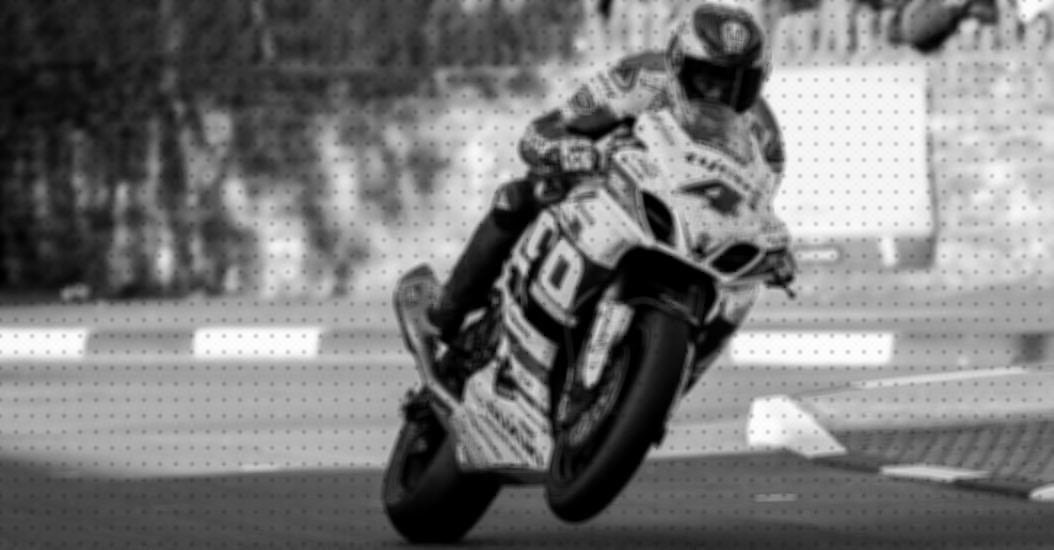
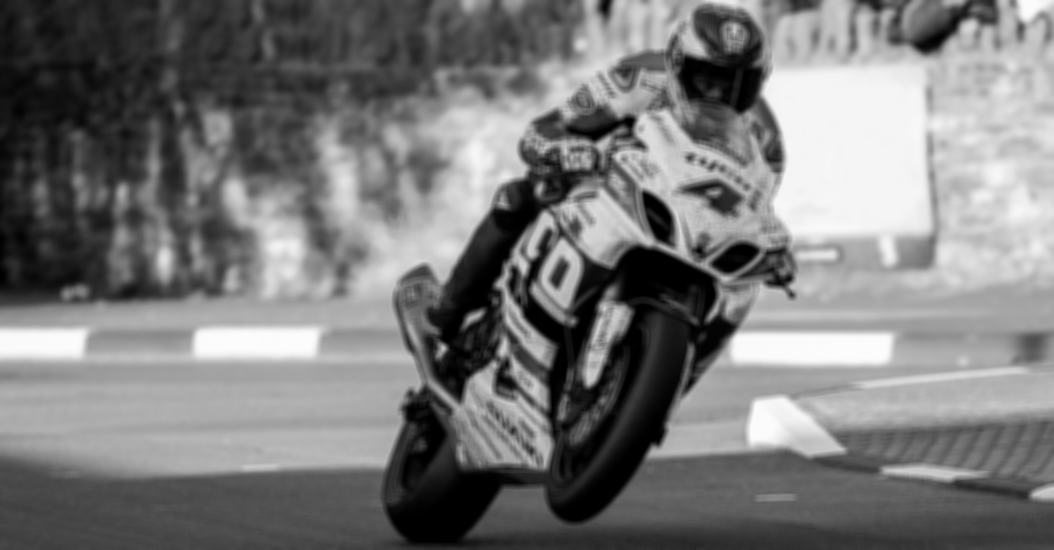
Fix blur corner halos, optimized CPU baseline, final benchmark results

diff --git a/README.md b/README.md
@@ -1,69 +1,99 @@
 # CUDA Image Toolkit
 
-Learning project exploring CUDA C++ for image processing, built after completing NVIDIA DLI's CUDA fundamentals course.
+Learning project exploring CUDA C++ for image processing, built after completing NVIDIA DLI's CUDA fundamentals course. Each program is a small, self-contained example of one core CUDA concept.
 
 ## Progress
 
 - [x] Vector add (sanity check for CUDA pipeline)
-- [x] Grayscale conversion
-- [x] Box blur (shared memory)
+- [x] Grayscale conversion (2D thread indexing)
+- [x] Box blur (shared memory tiling)
 - [x] Sobel edge detection
-- [x] CPU vs GPU benchmarking
-
-## Benchmark Results
-Grayscale conversion, 1054x550 image, averaged over 100 runs:
-
-| | Time | 
-|---|---|
-| CPU (single-threaded loop) | 9.000 ms |
-| GPU (CUDA kernel only) | 0.038 ms |
-| **Speedup** | **235.8x** |
-
-*Note: GPU timing excludes host-device memory transfer to isolate compute performance. First-kernel-launch overhead (~20-30ms CUDA context init) is absorbed via a warmup call before timing.*
+- [x] CPU vs GPU benchmarking (grayscale, blur, Sobel)
+- [x] RGB blur (per-channel kernel launches)
+- [x] RGB Sobel edge detection
 
 ## Example Output
+
 | Original | Grayscale | Blur | Edge Detection |
 |---|---|---|---|
 | ![input](images/input.png) | ![gray](images/output_gray.png) | ![blur](images/output_blur.png) | ![edges](images/output_edges.png) |
 
+| RGB Blur | RGB Edge Detection |
+|---|---|
+| ![blur rgb](images/output_blur_rgb.png) | ![edges rgb](images/output_edges_rgb.png) |
+
+## Benchmark Results
+
+Image: 1054x550. GPU times are kernel-only (excluding host-device memory transfer), averaged over 100 runs after a warmup launch. The CPU versions are plain single-threaded loops compiled with `/O2`.
+
+| Kernel | CPU (ms) | GPU (ms) | Speedup |
+|---|---|---|---|
+| Grayscale | 1.000 | 0.022 | 45.9x |
+| Box Blur (7x7) | 20.000 | 0.101 | 197.2x |
+| Sobel Edge | 7.000 | 0.038 | 184.7x |
+
+**What the numbers show:** the more work each pixel needs, the bigger the GPU advantage. Grayscale does 3 reads and a weighted sum per pixel. The 7x7 blur does 49 reads per pixel, which the CPU must process one pixel at a time, while the GPU spreads that work across thousands of cores.
+
+**Methodology notes**
+- The first CUDA kernel launch pays a one-time context-initialization cost (~20-30 ms). A warmup launch absorbs it. Without the warmup, my first benchmark showed the GPU as 5x *slower* than the CPU.
+- My first benchmark compiled the CPU code without optimization, which inflated the speedups (blur showed 4331x). The numbers above use `/O2` for a fair baseline.
+- CPU timing uses `clock()`, which has roughly 1 ms resolution on Windows, so the grayscale CPU figure is the least precise.
+- Kernel-only timing isolates compute speed. End-to-end time for one small image would also include `cudaMemcpy` transfers, which can erase the GPU advantage. GPUs pay off on large, heavy, or repeated workloads such as video or batches.
+
 ## Requirements
 
 - NVIDIA GPU + CUDA Toolkit
-- MSVC (Windows) or GCC (Linux)
+- Windows: MSVC (Visual Studio Build Tools, "Desktop development with C++"). Run commands from the **x64 Native Tools Command Prompt**.
+- Image loading and saving use the single-header [stb](https://github.com/nothings/stb) libraries (included in `include/`)
 
-## Build & Run Steps
+## Build & Run
 
-- Use x64 Native Tools Command Prompt to run CUDA commands
-- nvcc src/vector_add.cu -o vector_add.exe
-  vector_add.exe
+Run from the repository root. Run grayscale first, since blur and edge detection read `images/output_gray.png`.
 
-- nvcc src/grayscale.cu -o grayscale.exe
-  grayscale.exe
+```
+nvcc -diag-suppress 550 src/vector_add.cu -o vector_add.exe
+vector_add.exe
 
-- nvcc src/blur.cu -o blur.exe
-  blur.exe
-  
-- nvcc src/edge_detect.cu -o edge_detect.exe
-  edge_detect.exe
+nvcc -diag-suppress 550 src/grayscale.cu -o grayscale.exe
+grayscale.exe
 
-- nvcc src/benchmark.cu -o benchmark.exe
-  benchmark.exe
+nvcc -diag-suppress 550 src/blur.cu -o blur.exe
+blur.exe
 
-## Example
+nvcc -diag-suppress 550 src/edge_detect.cu -o edge_detect.exe
+edge_detect.exe
 
-Input → grayscale output using a custom CUDA kernel (2D thread indexing, one thread per pixel).
+nvcc -diag-suppress 550 src/blur_rgb.cu -o blur_rgb.exe
+blur_rgb.exe
 
-## Now Extending the benchmark to blur/edge detection to heavier kernels
-- Created benchmark_all.cu this will add CPU versions of blur/edge detection then 3x all three CPUvsGPU
-- Run these commands:  
-- nvcc src/benchmark_all.cu -o benchmark_all.exe 
-- benchmark_all.exe
+nvcc -diag-suppress 550 src/edge_rgb.cu -o edge_rgb.exe
+edge_rgb.exe
 
-## Results of above test
-Image: 1054x550
-Kernel               |    CPU (ms)    |  GPU (ms)  |  Speedup
-Grayscale            |       9.000    |    0.032   |  285.2x
-Box Blur (7x7)       |     426.000    |    0.098   |  4331.4x
-Sobel Edge           |      74.000    |    0.042   |  1751.9x
+nvcc -O2 -Xcompiler "/O2" -diag-suppress 550 src/benchmark_all.cu -o benchmark_all.exe
+benchmark_all.exe
+```
 
-- Now here blur jumped so much higher than grayscale: each pixel now does 49 reads + sum instead of grayscale's 3 reads + weighted sum — CPU cost scales up hard (426ms!) since it's doing that sequentially, one pixel at a time. GPU barely notices because thousands of cores absorb that extra per-pixel work in parallel..
+`src/benchmark.cu` is the original grayscale-only benchmark. `src/benchmark_all.cu` extends it to blur and Sobel with CPU versions of each.
+
+## How the RGB versions work
+
+RGB images are stored interleaved in one flat array (`R,G,B,R,G,B,...`). To read one color of one pixel:
+
+```
+index = (y * width + x) * channels + channelIdx
+```
+
+where `channelIdx` is 0 for red, 1 for green, 2 for blue. The RGB kernels take `channelIdx` as a parameter and are launched once per channel, so the blur and Sobel logic is identical to the grayscale versions.
+
+## What I Learned
+
+- Thinking in parallel: one thread owns one unit of work (one pixel)
+- Shared memory tiling with halo cells (including corners) to avoid repeated slow global-memory reads
+- Always checking CUDA errors, and benchmarking GPU code honestly (warmup runs, averaging, a fair CPU baseline)
+- How interleaved RGB data is laid out in memory
+
+## Ideas for Next Steps
+
+- Single-kernel RGB processing (all channels per thread)
+- Tiled matrix multiplication compared against cuBLAS
+- N-body particle simulation
